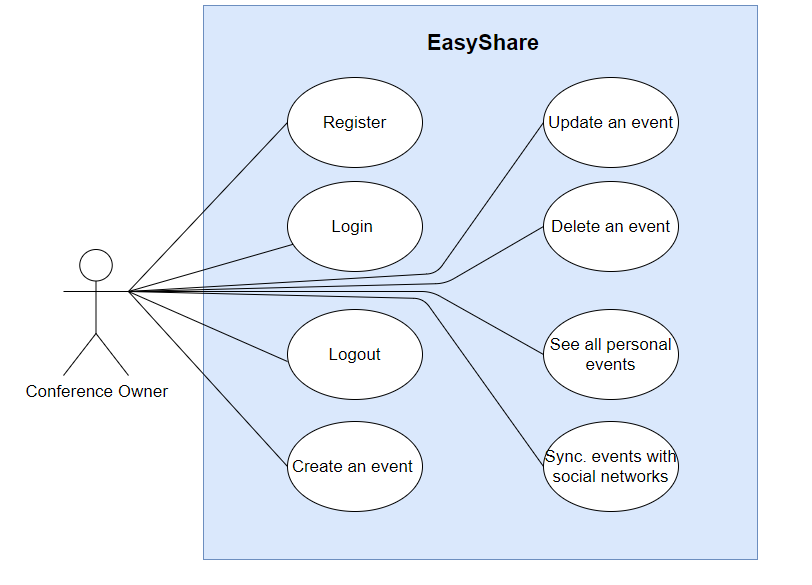
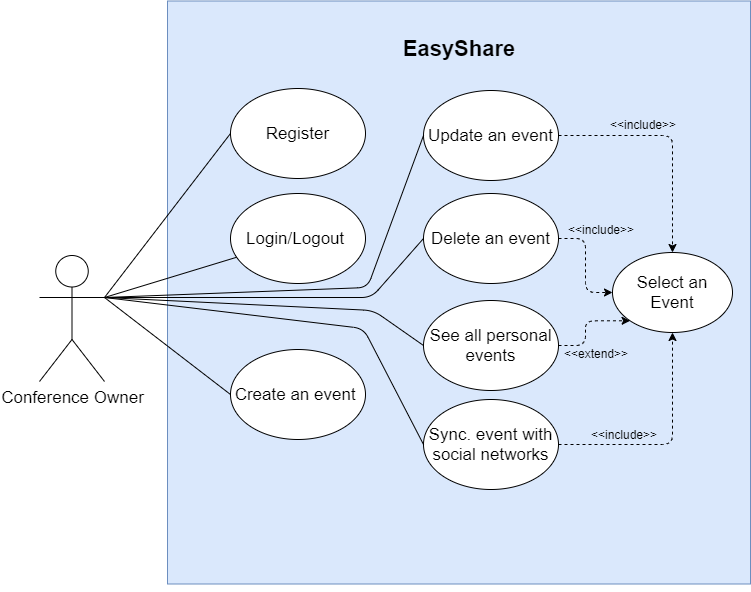
Update do user case diagram. Alteração da forma como é feita a transição entre janelas.

diff --git a/easy_share/lib/Screens/MainDrawer.dart b/easy_share/lib/Screens/MainDrawer.dart
@@ -31,9 +31,10 @@ class MainDrawer extends StatelessWidget {
               leading: Icon(Icons.home_outlined),
               title: Text("Home",style: TextStyle(fontSize: 18),),
               onTap: (){
-                Navigator.of(context).pop();
-                Navigator.of(context).push(MaterialPageRoute(
-                    builder: (BuildContext context) => HomePage()));
+                Navigator.pushAndRemoveUntil(context,
+                    MaterialPageRoute(
+                        builder: (BuildContext context) => HomePage()),
+                        (route) => false);
               },
             ),
             ListTile(
@@ -49,9 +50,10 @@ class MainDrawer extends StatelessWidget {
               title: Text("Logout",style: TextStyle(fontSize: 18),),
               onTap: (){
                 context.read<AuthenticationService>().signOut();
-                Navigator.of(context).pop();
-                Navigator.of(context).push(MaterialPageRoute(
-                builder: (BuildContext context) => WelcomePage()));
+                Navigator.pushAndRemoveUntil(context,
+                    MaterialPageRoute(
+                        builder: (BuildContext context) => WelcomePage()),
+                        (route) => false);
               },
           ),
         ],

diff --git a/easy_share/lib/Screens/Login/login.page.dart b/easy_share/lib/Screens/Login/login.page.dart
@@ -156,10 +156,10 @@ class _LoginPageState extends State<LoginPage>  {
             email: _email.text.trim(),
             password: _password.text.trim());
         print("Signed in with ID $uid");
-        Navigator.of(context).pop(); // para remover o welcomePage
-        Navigator.of(context).pop(); // para remover o loginPage
-        Navigator.of(context).push(MaterialPageRoute(
-            builder: (BuildContext context) => HomePage()));
+        Navigator.pushAndRemoveUntil(context,
+            MaterialPageRoute(
+                builder: (BuildContext context) => HomePage()),
+                (route) => false);
       } catch (e) { //caso não seja possivel ligar a base de dados é lançada uma exceção
         setState(() {
           _error = e.message;

diff --git a/easy_share/lib/Screens/add_event.page.dart b/easy_share/lib/Screens/add_event.page.dart
@@ -1,4 +1,5 @@
 import 'package:date_field/date_field.dart';
+import 'package:easy_share/Screens/home.page.dart';
 import 'package:flutter/material.dart';
 
 import 'Login/login.page.dart';
@@ -136,6 +137,10 @@ class _AddEventState extends State<AddEventPage> {
               setState(() {
                 buttonText = Text("Your event was added!");
               });
+              Navigator.pushAndRemoveUntil(context,
+                  MaterialPageRoute(
+                    builder: (BuildContext context) => HomePage()),
+              (route) => false);
             },
             child: buttonText),
       ),
